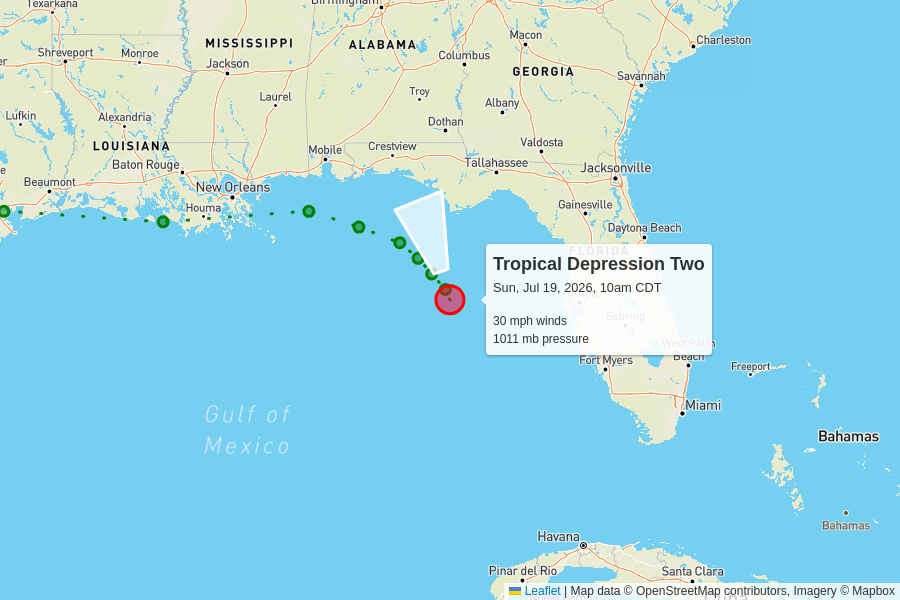
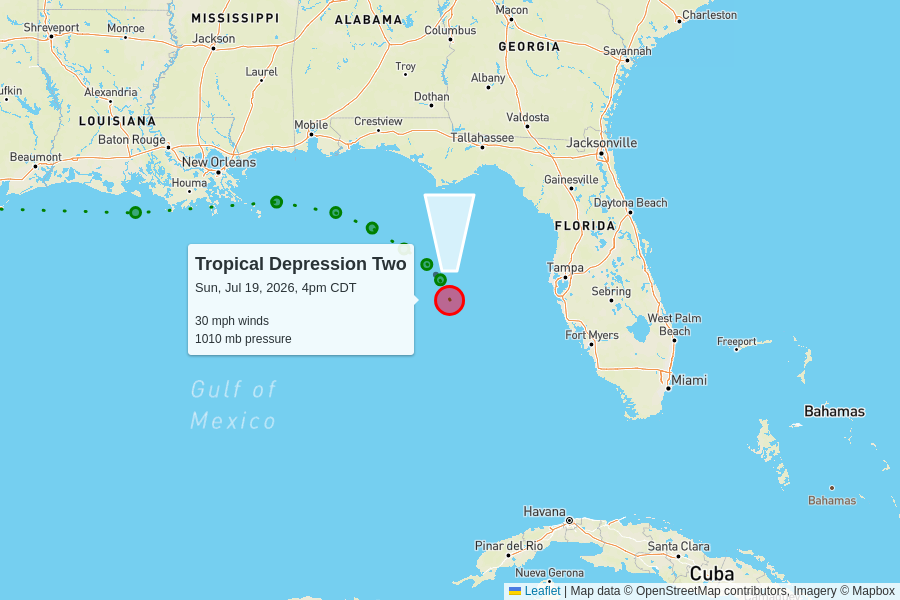
automatic update

diff --git a/docs/index.html b/docs/index.html
@@ -102,7 +102,7 @@
         <td colspan="6" class="storm category-0" >
           <h2>
             Tropical Depression Two
-            <p class="updated">last updated <span data-time>2026-07-19T15:00:00.000Z</span></p>
+            <p class="updated">last updated <span data-time>2026-07-19T21:00:00.000Z</span></p>
           </h2>
         </td>
       </tr>
@@ -117,12 +117,12 @@
       </tr>
       <tr>
         <td class="spacer"></td>
-        <td>30 mph</td>
-        <td>1011 mb</td>
+        <td>30 mph<br>0 mph since last update</td>
+        <td>1010 mb<br>-1 mb since last update</td>
         <td>
-          2 mph to the north-northwest
+          null mph to the north
           <br/>
-          <span style="display: inline-block; font-size: 1.5em; transform: rotate(340deg);">↑</span>
+          <span style="display: inline-block; font-size: 1.5em; transform: rotate(0deg);">↑</span>
         </td>
         <td><a href="https://raw.githubusercontent.com/mgwalker/atlantic-hurricanes/main/data/csv/AL022026.csv">AL022026.csv</a></td>
         <td><a href="https://www.nhc.noaa.gov/archive/2026/TWO.shtml?">NHC advisories</a></td>